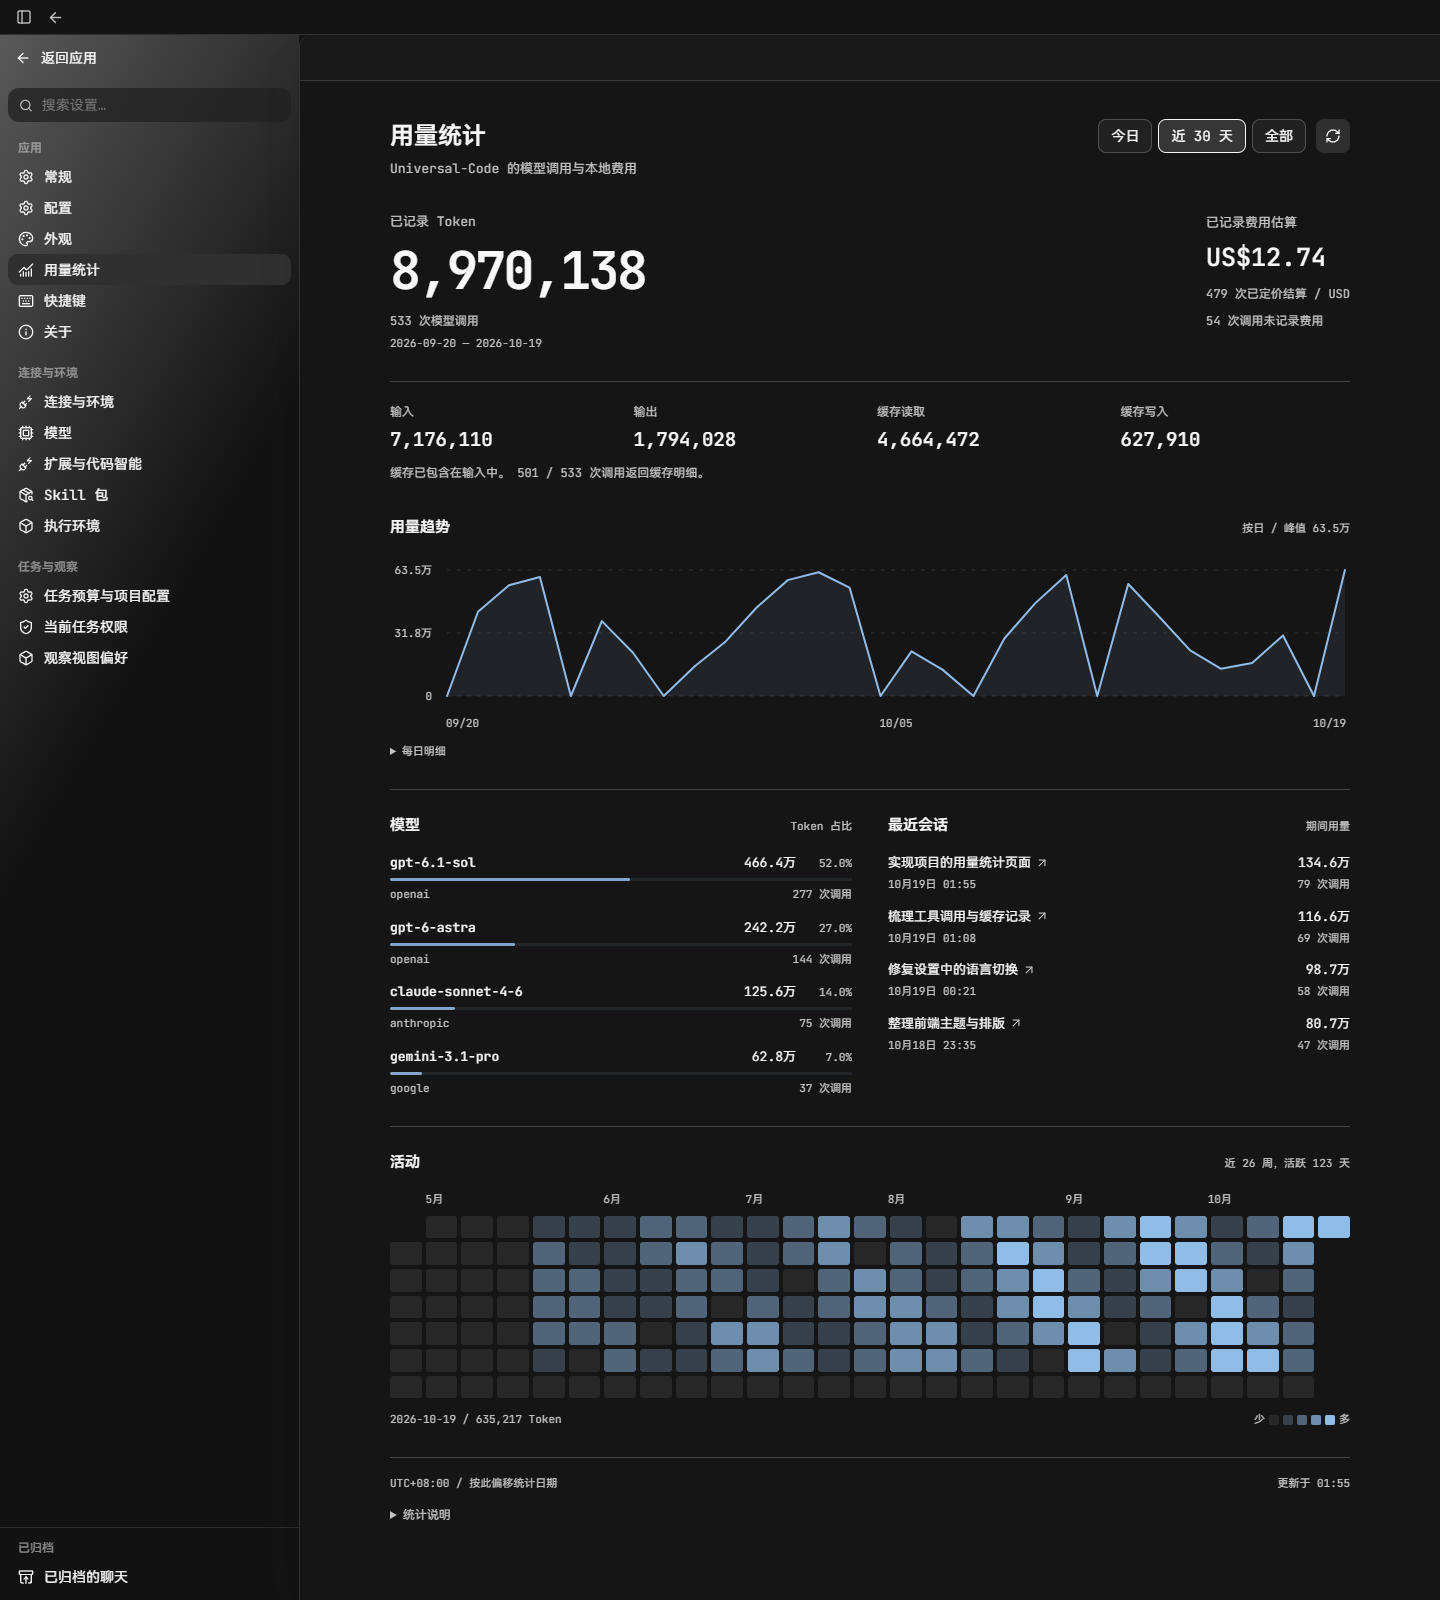
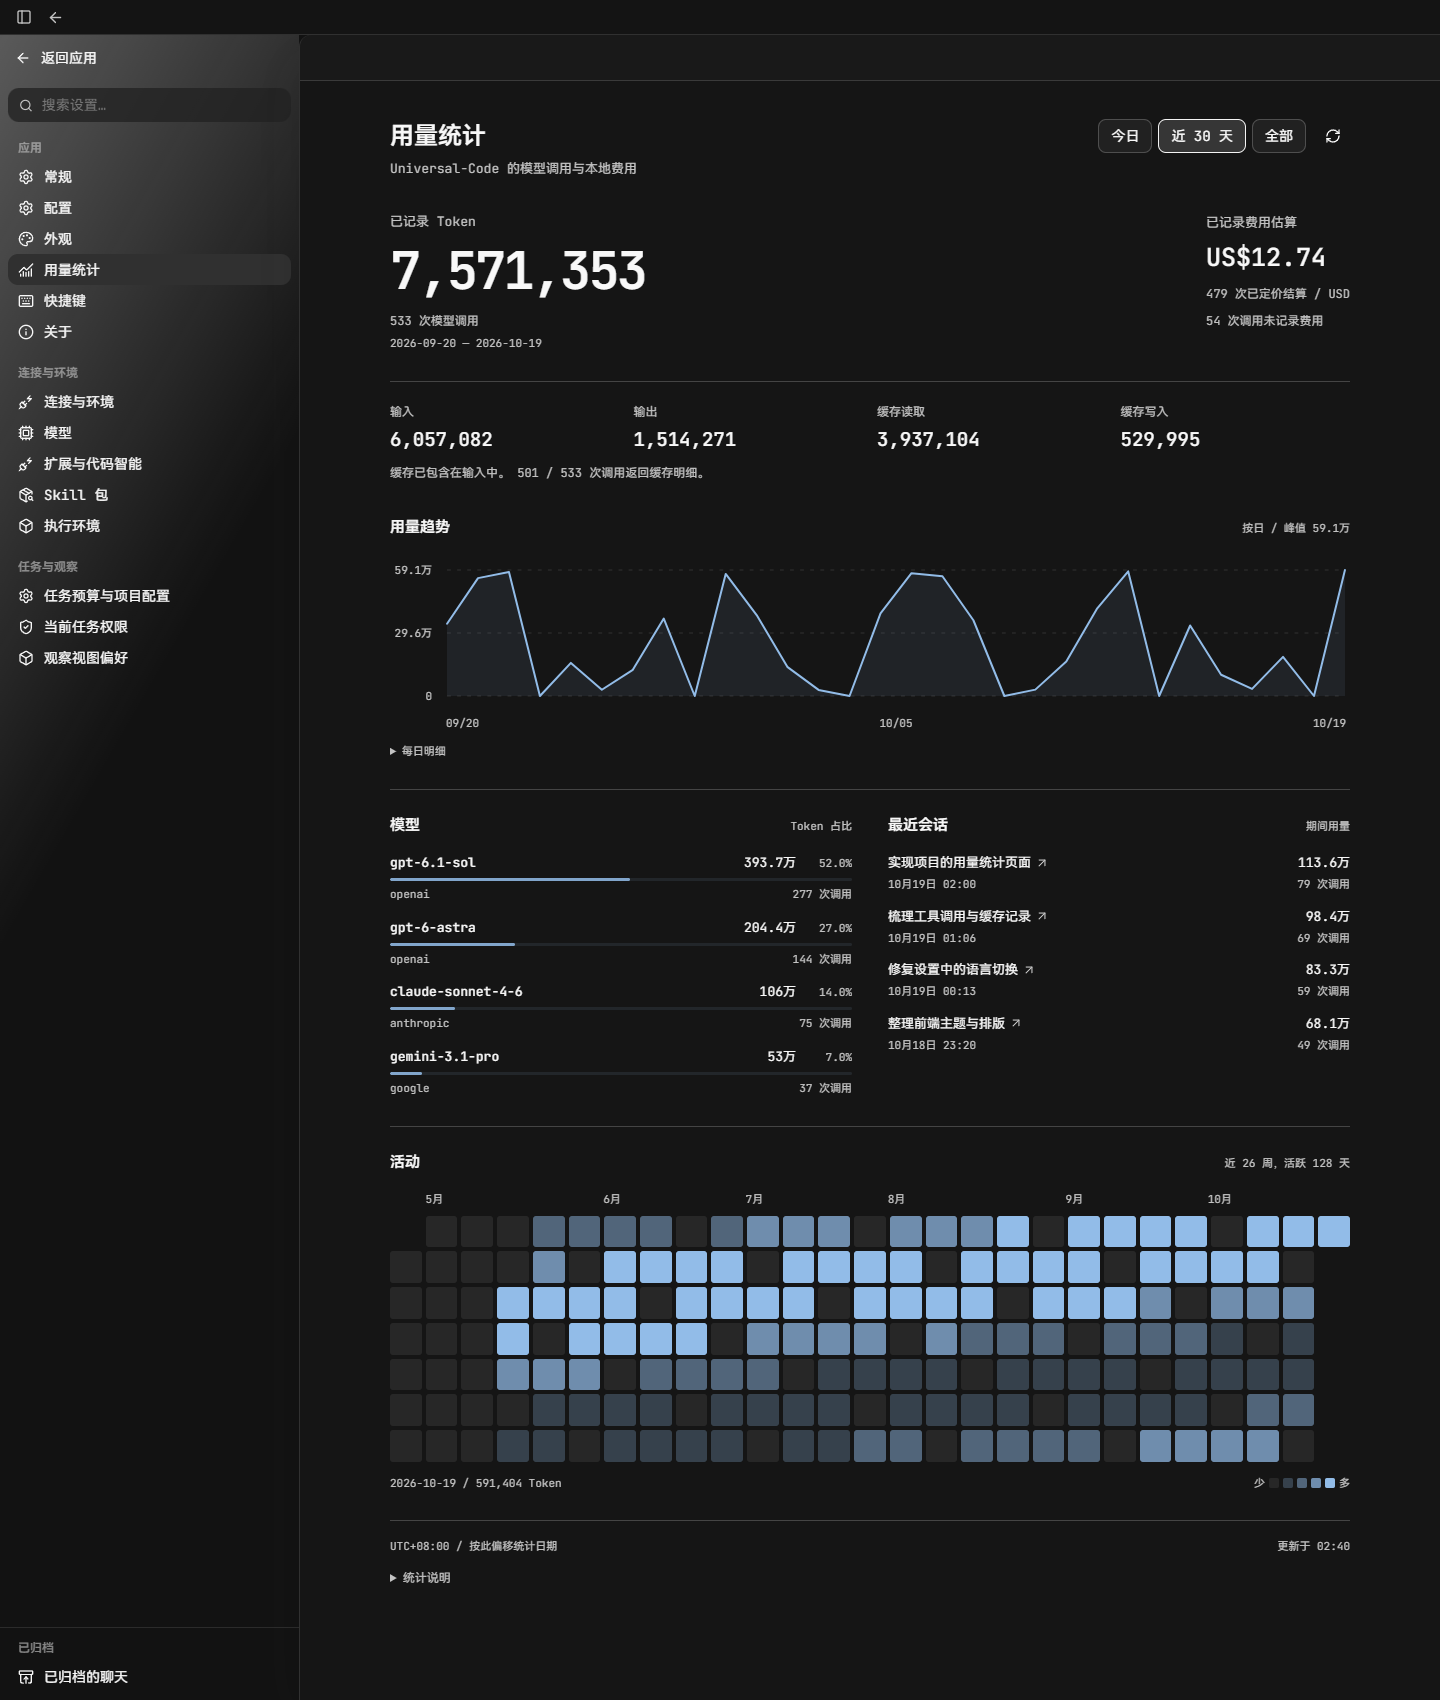
fix(usage): keep activity heatmap cells square

diff --git a/web/src/v2/components/usage-settings.css b/web/src/v2/components/usage-settings.css
@@ -68,7 +68,7 @@
 .v2-usage-heatmap-months { position: relative; color: var(--v2-muted); height: 24px; font-size: 11px; }
 .v2-usage-heatmap-months > span { position: absolute; }
 .v2-usage-heatmap { display: grid; grid-template-rows: repeat(7, auto); grid-auto-flow: column; gap: 4px; }
-.v2-usage-heatmap button { display: block; width: 100%; aspect-ratio: 1.4; border-radius: 3px; border: 0; padding: 0; cursor: pointer; }
+.v2-usage-heatmap button { display: block; width: 100%; aspect-ratio: 1; border-radius: 3px; border: 0; padding: 0; cursor: pointer; }
 .v2-usage [data-level="0"] { background: color-mix(in srgb, var(--v2-muted) 10%, transparent); }
 .v2-usage [data-level="1"] { background: color-mix(in srgb, var(--usage-chart) 26%, transparent); }
 .v2-usage [data-level="2"] { background: color-mix(in srgb, var(--usage-chart) 48%, transparent); }
@@ -94,7 +94,7 @@
   .v2-usage-breakdown dd { font-size: 17px; }
   .v2-usage-plot { height: 140px; }
   .v2-usage-heatmap { gap: 2px; }
-  .v2-usage-heatmap button { aspect-ratio: 1; border-radius: 2px; }
+  .v2-usage-heatmap button { border-radius: 2px; }
 }
 @media (forced-colors: active) {
   .v2-usage { --usage-chart: Highlight; }
